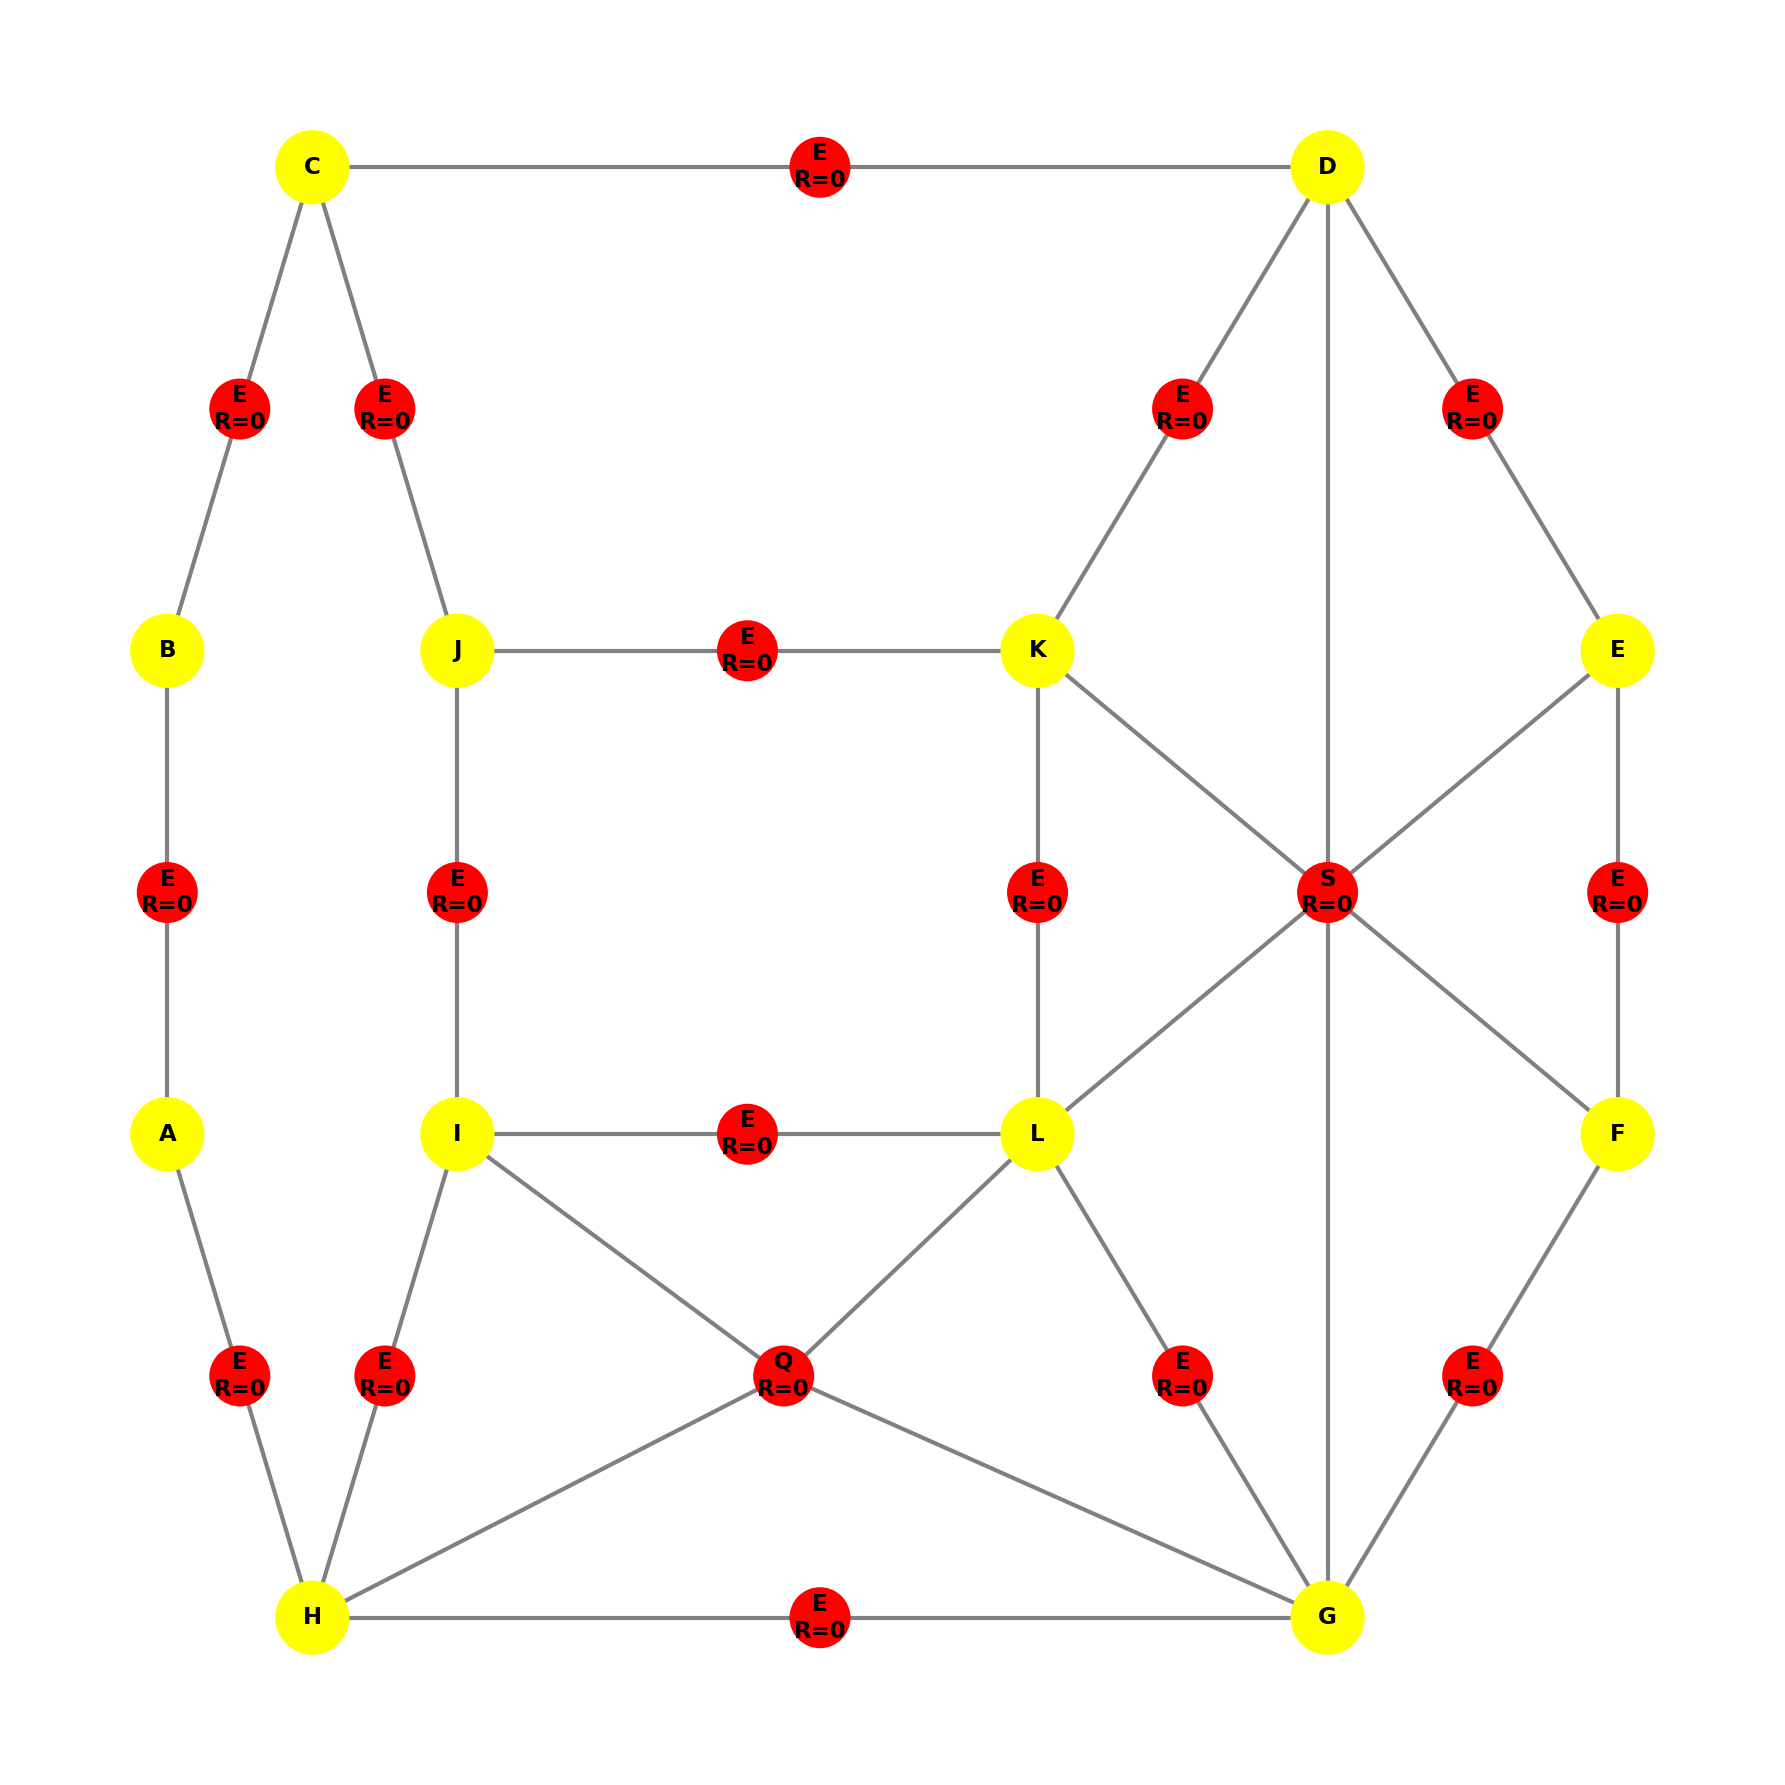
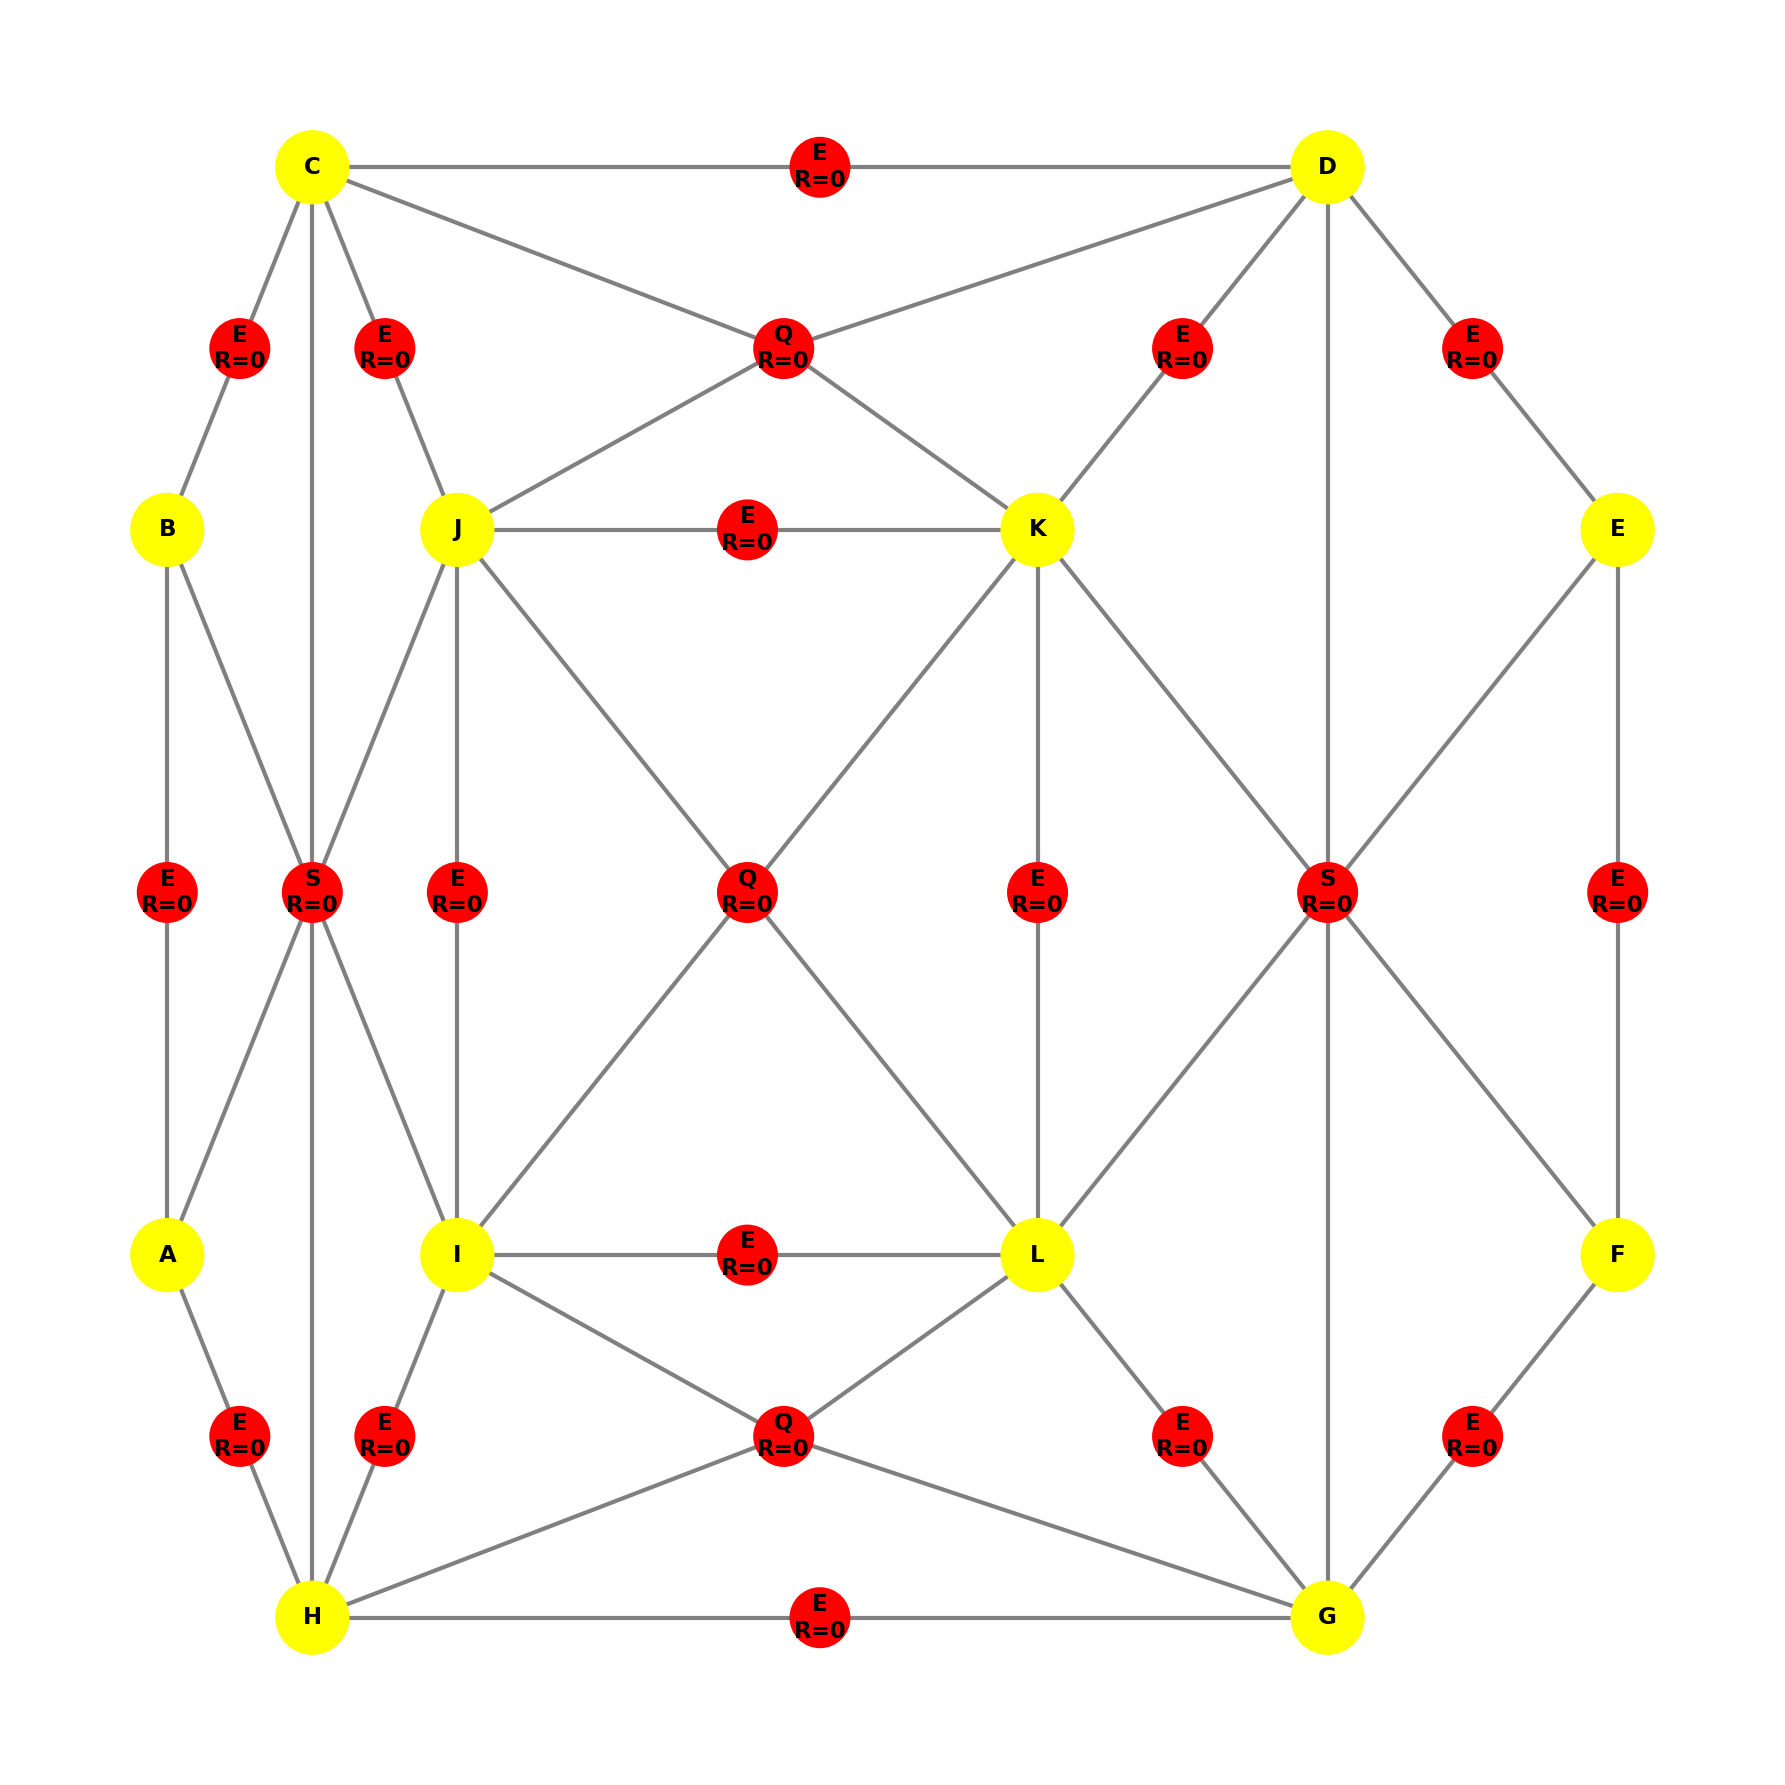
shit not working

diff --git a/wywody/gr2/init_graph.py b/wywody/gr2/init_graph.py
@@ -2,48 +2,52 @@ from graph_model import Graph, Node, HyperEdge
 
 
 def make_graph() -> Graph:
-    graph = Graph()
+    g = Graph()
 
-    v_A = Node(0, 5, "A")
-    v_B = Node(0, 10, "B")
-    v_C = Node(5, 15, "C")
-    v_D = Node(40, 15, "D")
-    v_E = Node(50, 10, "E")
-    v_F = Node(50, 5, "F")
-    v_G = Node(40, 0, "G")
-    v_H = Node(5, 0, "H")
-    v_I = Node(10, 5, "I")
-    v_J = Node(10, 10, "J")
-    v_K = Node(30, 10, "K")
-    v_L = Node(30, 5, "L")
+    # Left
+    w0 = Node(0.0, 1.0, "B")
+    w1 = Node(0.5, 2.0, "C")
+    w2 = Node(1.0, 1.0, "J")
+    w3 = Node(1.0, -1.0, "I")
+    w4 = Node(0.5, -2.0, "H")
+    w5 = Node(0.0, -1.0, "A")
 
-    for v in [v_A, v_B, v_C, v_D, v_E, v_F, v_G, v_H, v_I, v_J, v_K, v_L]:
-        graph.add_node(v)
+    nodes = [w0, w1, w2, w3, w4, w5]
+    for n in nodes:
+        g.add_node(n)
+    for u, v in ((w0, w1), (w0, w5), (w4, w5)):
+        g.add_edge(HyperEdge((u, v), "E", boundary=True, R=0, B=1))
+    for u, v in ((w1, w2), (w2, w3), (w3, w4)):
+        g.add_edge(HyperEdge((u, v), "E", boundary=False, R=0, B=1))
 
-    # Outline A -> H
-    graph.add_edge(HyperEdge((v_A, v_B), "E", R=0, B=1))
-    graph.add_edge(HyperEdge((v_B, v_C), "E", R=0, B=1))
-    graph.add_edge(HyperEdge((v_C, v_D), "E", R=0, B=1))
-    graph.add_edge(HyperEdge((v_D, v_E), "E", R=0, B=1))
-    graph.add_edge(HyperEdge((v_E, v_F), "E", R=0, B=1))
-    graph.add_edge(HyperEdge((v_F, v_G), "E", R=0, B=1))
-    graph.add_edge(HyperEdge((v_G, v_H), "E", R=0, B=1))
-    graph.add_edge(HyperEdge((v_H, v_A), "E", R=0, B=1))
+    # Right
+    w8 = Node(4.0, -2.0, "G")
+    w9 = Node(5.0, -1.0, "F")
+    w10 = Node(5.0, 1.0, "E")
+    w11 = Node(4.0, 2.0, "D")
+    nodes = [w8, w9, w10, w11]
+    for n in nodes:
+        g.add_node(n)
+    for u, v in ((w8, w9), (w9, w10), (w10, w11), (w1, w11), (w4, w8)):
+        g.add_edge(HyperEdge((u, v), "E", boundary=True, R=0, B=1))
 
-    # Central Quad I - > L
-    graph.add_edge(HyperEdge((v_I, v_J), "E", R=0, B=0))
-    graph.add_edge(HyperEdge((v_J, v_K), "E", R=0, B=0))
-    graph.add_edge(HyperEdge((v_K, v_L), "E", R=0, B=0))
-    graph.add_edge(HyperEdge((v_L, v_I), "E", R=0, B=0))
+    # Connector
+    w6 = Node(3.0, 1.0, "K")
+    w7 = Node(3.0, -1.0, "L")
+    nodes = [w6, w7]
+    for n in nodes:
+        g.add_node(n)
+    for u, v in ((w2, w6), (w3, w7), (w6, w7)):
+        g.add_edge(HyperEdge((u, v), "E", boundary=False, R=0, B=1))
 
-    # Connectors: Outline -> Central Quad
-    graph.add_edge(HyperEdge((v_C, v_J), "E", R=0, B=0))
-    graph.add_edge(HyperEdge((v_D, v_K), "E", R=0, B=0))
-    graph.add_edge(HyperEdge((v_G, v_L), "E", R=0, B=0))
-    graph.add_edge(HyperEdge((v_H, v_I), "E", R=0, B=0))
+    for u, v in ((w7, w8), (w6, w11)):
+        g.add_edge(HyperEdge((u, v), "E", boundary=False, R=0, B=1))
 
-    # Figures
-    graph.add_edge(HyperEdge((v_H, v_G, v_I, v_L), "Q", R=0))
-    graph.add_edge(HyperEdge((v_D, v_E, v_F, v_G, v_L, v_K), "S", R=0))
+    # Hyperedges
+    g.add_edge(HyperEdge(tuple((w1, w2, w6, w11)), "Q", R=0))
+    g.add_edge(HyperEdge(tuple((w2, w6, w7, w3)), "Q", R=0))
+    g.add_edge(HyperEdge(tuple((w3, w7, w8, w4)), "Q", R=0))
+    g.add_edge(HyperEdge(tuple((w6, w7, w8, w9, w10, w11)), "S", R=0))
+    g.add_edge(HyperEdge(tuple((w0, w1, w2, w3, w4, w5)), "S", R=0))
 
-    return graph
+    return g

diff --git a/wywody/gr2/break_graph.py b/wywody/gr2/break_graph.py
@@ -1,4 +1,5 @@
 import os
+from graph_model import Graph
 from wywody.gr2.init_graph import make_graph
 from visualization import draw
 from productions.p0 import P0
@@ -14,74 +15,29 @@ from productions.p11 import P11
 DIR = "wywody/gr2/img"
 
 
+def pipeline(g: Graph, label: str, level: int):
+    step = 1
+    marking = [P9, P0]
+    productions = [P1, P4, P3, P5, P10, P4, P2, P3, P11]
+    for _ in range(level):
+
+        for prod in marking:
+            while g.apply(prod(), specified_label=label):
+                draw(g, os.path.join(DIR, f"{step}.png"))
+                step += 1
+
+        for prod in productions:
+            while g.apply(prod()):
+                draw(g, os.path.join(DIR, f"{step}.png"))
+                step += 1
+
+
 def main():
     os.makedirs(DIR, exist_ok=True)
 
-    # Around vertex G
-    graph = make_graph()
-    draw(graph, f"{DIR}/0.png")
-
-    # 1. Mark Quad
-    graph.apply(P0())
-    print("P0")
-    draw(graph, f"{DIR}/1.png")
-
-    # 2. Mark Hex
-    graph.apply(P9())
-    print("P9")
-    draw(graph, f"{DIR}/2.png")
-
-    # 3. Marking Quad Edges
-    graph.apply(P1())
-    print("P1")
-    draw(graph, f"{DIR}/3.png")
-
-    # 4. Break Boundary
-    while P4().can_apply(graph=graph):
-        graph.apply(P4())
-        print("P4")
-    draw(graph, f"{DIR}/4.png")
-
-    # 5. Break Joint Edges
-    while P3().can_apply(graph=graph):
-        graph.apply(P3())
-        print("P3")
-    draw(graph, f"{DIR}/5.png")
-
-    # 6. Break Quad
-    while P5().can_apply(graph=graph):
-        graph.apply(P5())
-        print("P5")
-    draw(graph, f"{DIR}/6.png")
-
-    # 7. Marking Hex Edges
-    graph.apply(P10())
-    print("P10")
-    draw(graph, f"{DIR}/7.png")
-
-    # 8. Break Boundary
-    while P4().can_apply(graph=graph):
-        graph.apply(P4())
-        print("P4")
-    draw(graph, f"{DIR}/8.png")
-
-    # 9. Break Joint Already Broken
-    while P2().can_apply(graph=graph):
-        graph.apply(P2())
-        print("P2")
-    draw(graph, f"{DIR}/9.png")
-
-    # 10. Break Joint Edges
-    while P3().can_apply(graph=graph):
-        graph.apply(P3())
-        print("P3")
-    draw(graph, f"{DIR}/10.png")
-
-    # 11. Break Hex
-    while P11().can_apply(graph=graph):
-        graph.apply(P11())
-        print("P5")
-    draw(graph, f"{DIR}/11.png")
+    g = make_graph()
+    draw(g, os.path.join(DIR, f"0.png"))
+    pipeline(g, "G", 2)
 
 
 if __name__ == "__main__":
